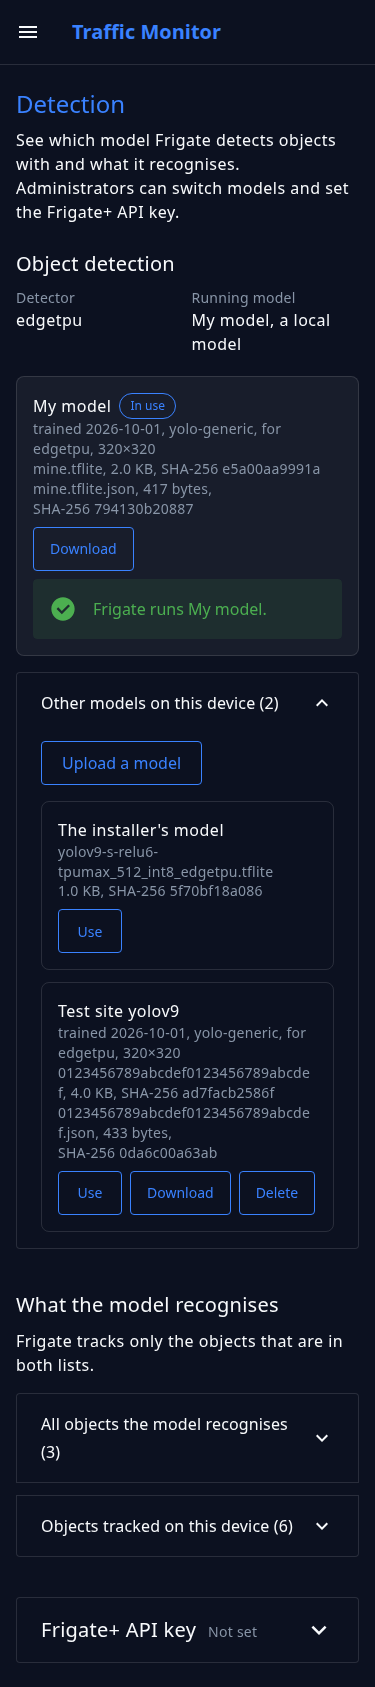
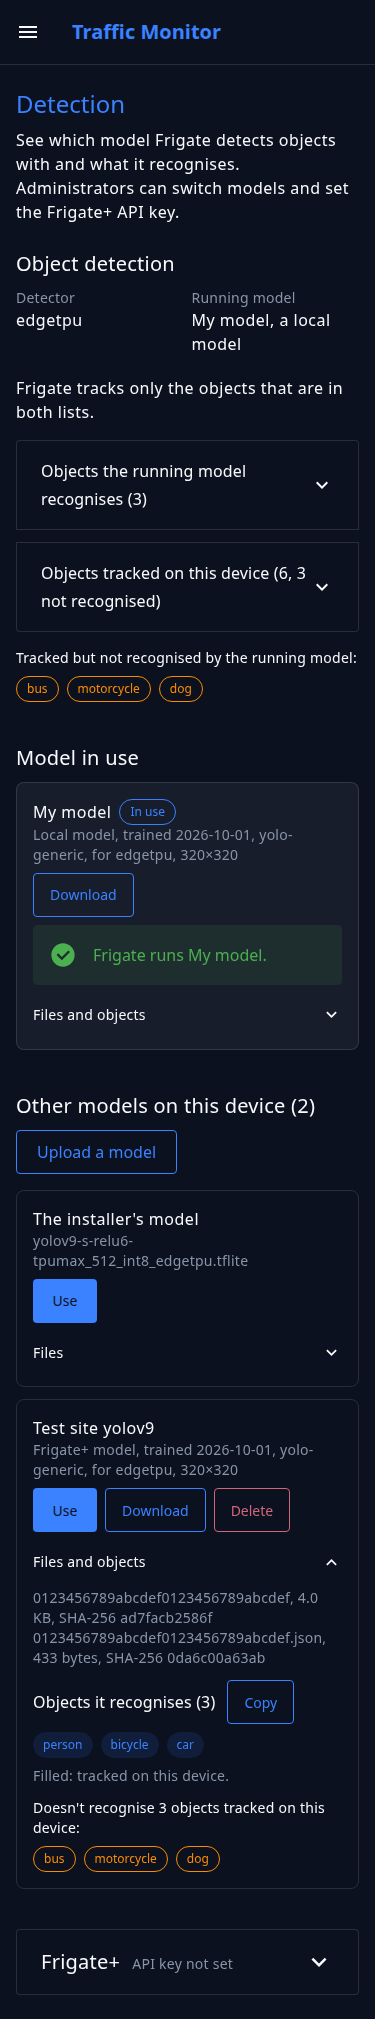
Give a card's fold room, and retake the Detection screenshots
At 375 and 1366 px the fold's title text touched the edge of its hover and
focus band, and a closed card looked bottom-heavy. The fold now reaches
8 px past the card's text on each side and takes 8 px back from the
card's bottom padding.

Assisted-by: Claude Code 2.1.319 (CLI)
AI-Model: Claude Opus 5.5 (claude-opus-5-5)
AI-Effort: high
AI-Role: drafted

diff --git a/tm-control/ui/src/modules/detection/ModelBlock.vue b/tm-control/ui/src/modules/detection/ModelBlock.vue
@@ -156,12 +156,19 @@ const named = (model: ModelOut, file: ModelFile) => file.name !== model.title
   word-break: break-all;
 }
 
-/* The fold's title and content line up with the card's other text */
+/* The fold's text lines up with the card's other text, and its title's hover and focus band reaches 8 px past that
+   text, so the text never touches the band's edge. The card's bottom padding gives way by the same 8 px, because the
+   title's own padding already leaves room there. */
+.fold {
+  margin: 0 -8px -8px;
+  width: auto;
+}
+
 .fold :deep(.v-expansion-panel-title) {
-  padding-inline: 0;
+  padding-inline: 8px;
 }
 
 .fold :deep(.v-expansion-panel-text__wrapper) {
-  padding: 0 0 8px;
+  padding: 0 8px 8px;
 }
 </style>

diff --git a/docs/use/detection.md b/docs/use/detection.md
@@ -15,7 +15,7 @@ The control app's **Detection** page shows what the device looks for and which A
 * **Other models on this device** lists the rest, and its title counts them.
 * **[Frigate+](#frigate-plus)** is how to get a Frigate+ model, and where administrators set the API key.
 
-![The Detection page on a phone, as an administrator: the Detector and Running model facts, the model in use with a "Frigate runs My model." result under it, and the other models opened, each with its buttons](../assets/images/detection-page-models.png){ width="300" }
+![The Detection page on a phone, as an administrator: the Detector and Running model facts, two closed lists of objects with three amber objects under them, the model in use with a "Frigate runs My model." result, Upload a model, and the other models' cards, one opened to show its files and objects](../assets/images/detection-page-models.png){ width="300" }
 
 Each model is a card with its name, its kind (Frigate+ or local), and when it was trained and what it's built for (when it says). Select **Files and objects** on a card to see its files, with their sizes and the start of each file's SHA-256 hash, and [the objects it recognises](#what-the-model-recognises). A model with no list of objects has **Files** instead. A mark says when the model is:
 
@@ -89,7 +89,7 @@ The running model's list and its card are read in different ways, but they shoul
 * **Online:** when the device has internet and a Frigate+ API key, pick the model in Frigate, under **Settings > System > Detectors and model**, and Frigate downloads it. Then choose [Use](#use-a-model) here if Frigate doesn't run it already.
 * **Offline:** upload the model's two files on this page, as a package from whoever trained the model, or copied from another device's Frigate. See [A device without internet](../configuration/frigate-config.md#a-device-without-internet).
 
-![The Frigate+ API key section opened on a phone: the two ways to get a model onto the device, the key field, and Save](../assets/images/detection-page-frigate-plus-key.png){ width="300" }
+![The Frigate+ section opened on a phone: the two ways to get a model onto the device, the key field, and Save](../assets/images/detection-page-frigate-plus-key.png){ width="300" }
 
 Administrators enter the API key under **Frigate+**, the last section of the page, which is closed until you select its title. The Status page's **Set the key** opens it. The key is kept with the device's other secrets, not in `config.yml`.
 

diff --git a/tm-control/ui/README.md b/tm-control/ui/README.md
@@ -591,6 +591,14 @@ narrowest phones:
 - Inside the panel, a Frigate+ model's 32-character file name filled a block's line at 360 and 375 px, and its comma
   started the next line. Narrower panel padding only moved the break, so the file name may now break anywhere.
 
+After the page was reshaped into four sections, it was checked again at 375 px and 1366 px, as an admin and as a viewer,
+through the `#frigate-plus` link, and through a Use and a Delete:
+
+- The fold's title text touched the edge of its hover and focus band, because the title had no side padding to keep it
+  aligned with the card's text. The fold now reaches 8 px past that text on each side, and the title and content pad
+  it back.
+- A closed card looked bottom-heavy, with the card's padding under the title's own. The fold takes back 8 px of it.
+
 #### Defaults rejected
 
 - A data table of the models: its columns don't fit 375 px, and most cells are empty for the installer's model.
